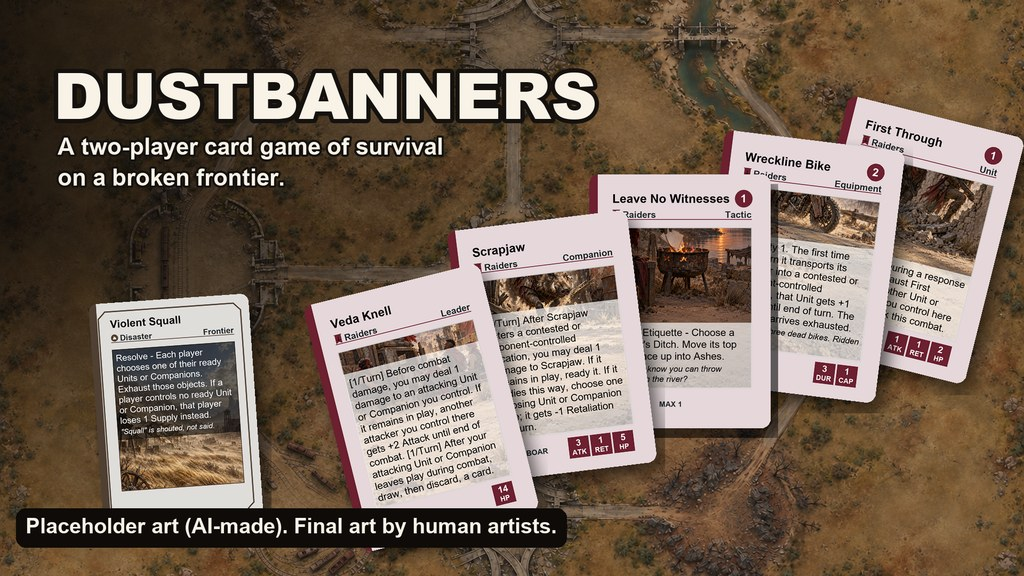
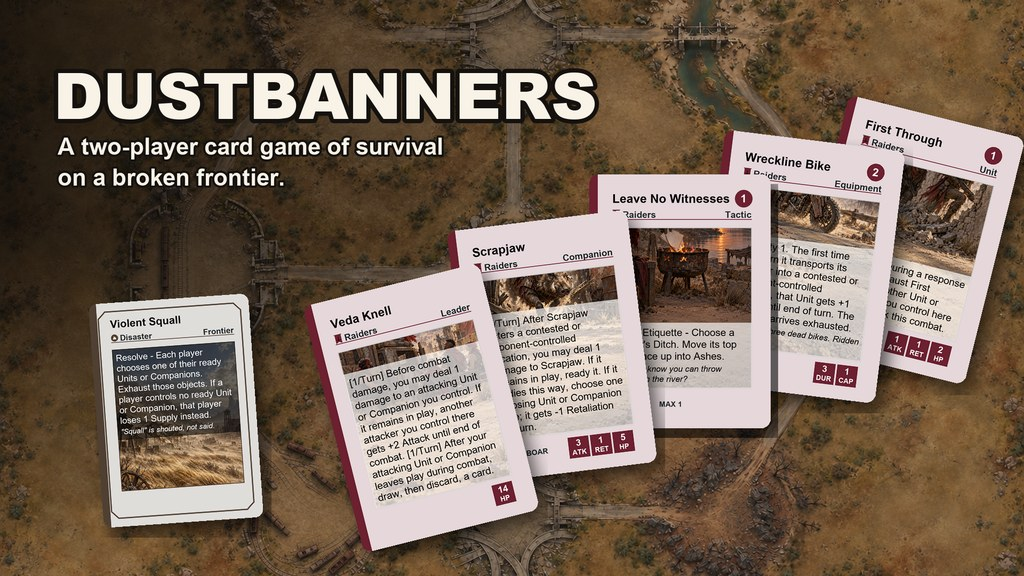
Hero: show the art clean, AI label as one caption below it (AI art switch still hides it)

Changed region(s): [[0.0, 0.875, 0.5625, 0.9688]]

diff --git a/index.html b/index.html
@@ -145,8 +145,9 @@ header { position: relative; }
   <picture class="ai-art">
     <source media="(max-width: 1100px)" srcset="img/hero-1024.jpg">
     <img src="img/hero.jpg" width="1920" height="1080"
-         alt="The Dustbanners title over a painted frontier map, with six placeholder cards fanned out: Violent Squall, Veda Knell, Scrapjaw, Leave No Witnesses, Wreckline Bike and First Through. A label on the image says: Placeholder art (AI-made). Final art by human artists.">
+         alt="The Dustbanners title over a painted frontier map, with six placeholder cards fanned out: Violent Squall, Veda Knell, Scrapjaw, Leave No Witnesses, Wreckline Bike and First Through. Placeholder art (AI-made). Final art by human artists.">
   </picture>
+  <figcaption class="ai-art">Placeholder art (AI-made). Final art by human artists.</figcaption>
 </figure>
 
 <div class="cta">
